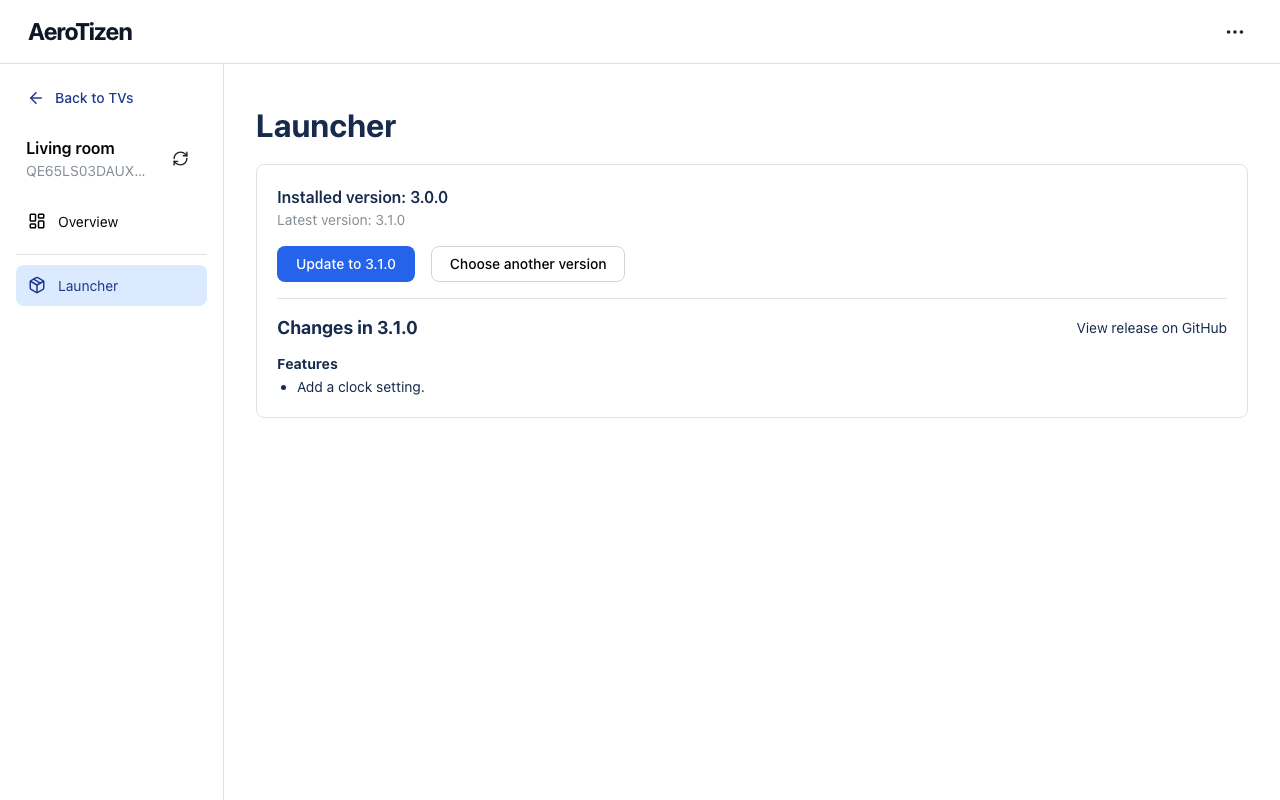
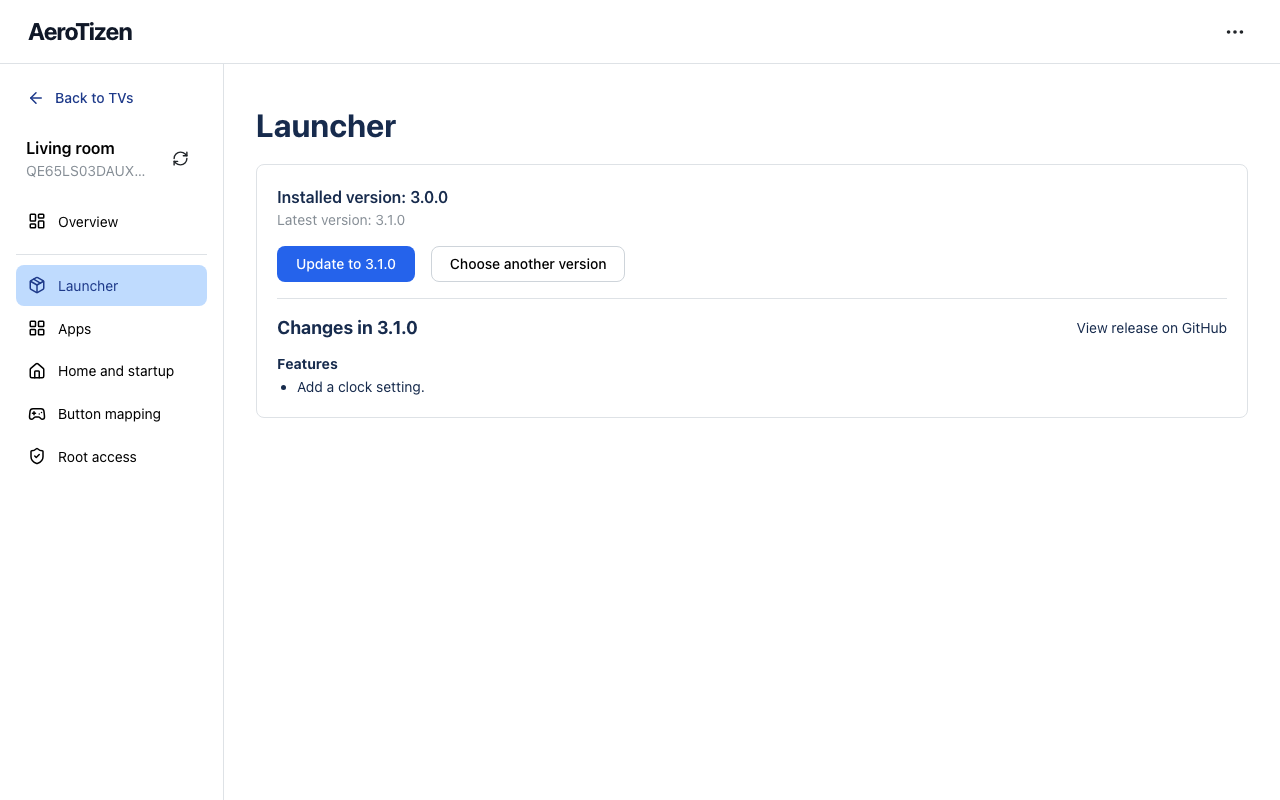
docs(desktop): refresh consolidated app screenshots

Changed region(s): [[0.0, 0.3125, 0.1875, 0.4688], [0.0312, 0.5, 0.125, 0.5312], [0.0312, 0.5625, 0.0938, 0.5938]]

diff --git a/desktop/README.md b/desktop/README.md
@@ -1,6 +1,7 @@
 # AeroTizen desktop
 
-Use AeroTizen Desktop to find and save Samsung TVs and install published launcher releases.
+Use AeroTizen Desktop to find and save Samsung TVs, install the launcher and local apps,
+manage installed apps, configure Home and remote buttons, and set up or update root access.
 The app uses Tauri, React, Mantine and a bundled Python worker. SQLite stores saved TV profiles.
 
 See screenshots of [TV selection](screenshots/tv-selection.png), [Overview](screenshots/overview.png),
@@ -47,6 +48,9 @@ Select packages and choose **Remove**. Review the apps and TV in the confirmatio
 before you remove them. If the TV refuses removal, the package shows **Delete on TV**.
 Check for **Delete** in **Apps → Settings** on the TV. Use **Refresh apps** to fetch the current list.
 
+See screenshots of [removal confirmation](screenshots/apps-confirm-removal.png) and
+[removal results](screenshots/apps-removal-results.png).
+
 In **Apps**, choose **Install app** to select a local Tizen `.wgt` file. Review the app,
 version and target TV before installing. Replacing an installed app requires confirmation;
 older versions can be incompatible with saved settings and updates need the original
@@ -70,6 +74,10 @@ TV's Home app, startup apps and Smart Hub autostart to AeroTizen after confirmat
 Apply first prepares the original backup, reusing a valid one for the selected TV; a
 first capture needs an updated paired helper and complete, unchanged Home and startup
 settings. Once applied, AeroTizen routing shows Native Home mode.
+
+See screenshots of [Home and startup](screenshots/home-and-startup.png),
+[backup and restore](screenshots/home-backup-status.png), and
+[Apply Native Home](screenshots/apply-native-home.png).
 
 Open **Button mapping** to see the remote's detected app buttons and their saved
 assignments. A rooted TV needs a compatible paired helper. A pending assignment
